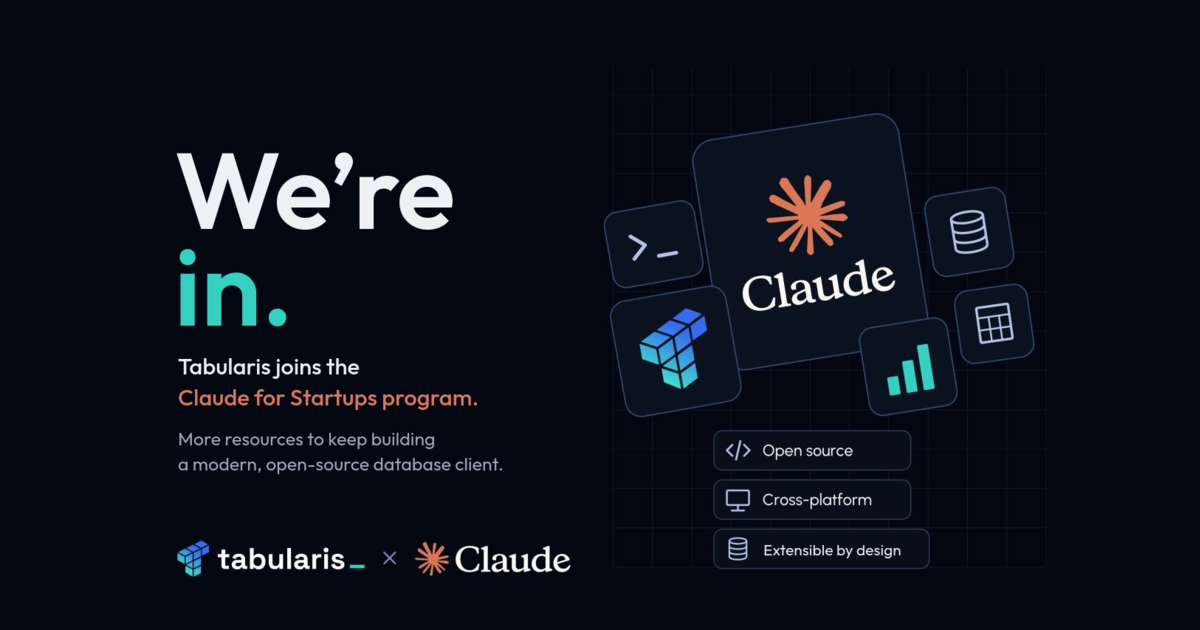
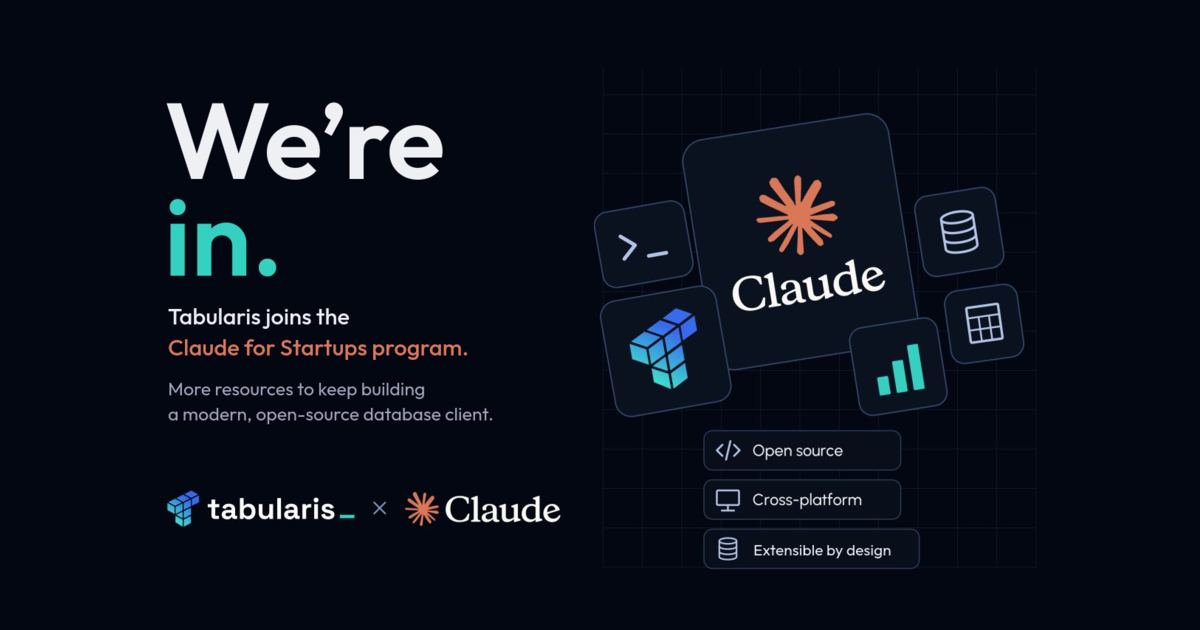
fix(blog): rename to Claude for Startups and recenter OG cover

diff --git a/content/posts/tabularis-joins-claude-startups.md b/content/posts/tabularis-joins-claude-startups.md
@@ -1,27 +1,27 @@
 ---
-title: "Tabularis Joins Claude Startups"
+title: "Tabularis Joins Claude for Startups"
 date: "2026-10-08T09:53:00"
 tags: ["community", "claude", "ai", "open-source"]
-excerpt: "Tabularis is now part of Claude Startups, Anthropic's program for early-stage companies. Here's what the program includes and what it changes for a small open-source database client."
+excerpt: "Tabularis is now part of Claude for Startups, Anthropic's program for early-stage companies. Here's what the program includes and what it changes for a small open-source database client."
 og:
-  title: "Tabularis joins Claude Startups —"
+  title: "Tabularis joins Claude for Startups"
   accent: "Build with us. Code with Claude."
   claim: "Anthropic's startup program, and what it gives a small open-source project built in public."
   image: "/img/og/claude-startups.png"
   cover: "/img/og/claude-startups.png"
 ---
 
-# Tabularis Joins Claude Startups
+# Tabularis Joins Claude for Startups
 
-Some news I'm genuinely happy to share: **Tabularis is now part of [Claude Startups](https://claude.com/programs/startups)**, Anthropic's program for early-stage companies building with Claude.
+Some news I'm genuinely happy to share: **Tabularis is now part of [Claude for Startups](https://claude.com/programs/startups)**, Anthropic's program for early-stage companies building with Claude.
 
 If you've followed this blog for a while, this probably won't come as news. Claude is already part of how Tabularis gets built, from the [AI assistant](/blog/ai-assistant) inside the app to the [MCP server](/blog/v099-mcp-multi-client) to experiments like [the one where Fable 5 opened an 1,800-line PR in 30 minutes](/blog/fable-5-opened-a-1800-line-pr-in-30-minutes). Joining the program makes that relationship official and gives a small project like ours resources that are hard to get otherwise.
 
 ![We're in: Tabularis joins the Claude for Startups program](/img/posts/tabularis-joins-claude-startups.png)
 
-## What Claude Startups is
+## What Claude for Startups is
 
-Claude Startups is Anthropic's program for young companies. It's open to startups **founded in the last 5 years or funded in the last 2**, and you don't need venture funding: bootstrapped and pre-seed teams are welcome too. You apply from the Claude Console with a company email and a short description of what you're building. Most applications are decided within minutes, and the rest go through a manual review that usually takes a couple of business days.
+Claude for Startups is Anthropic's program for young companies. It's open to startups **founded in the last 5 years or funded in the last 2**, and you don't need venture funding: bootstrapped and pre-seed teams are welcome too. You apply from the Claude Console with a company email and a short description of what you're building. Most applications are decided within minutes, and the rest go through a manual review that usually takes a couple of business days.
 
 Here's what the program includes:
 
@@ -48,7 +48,7 @@ The program changes a few practical things:
 
 ## What's next
 
-Joining Claude Startups doesn't change what Tabularis is: an open-source, cross-platform database client, built in public, with a plugin system anyone can extend. It does give us more fuel to build it faster and to try more ambitious ideas, and I'll keep sharing those experiments here on the blog, including what works and what doesn't.
+Joining Claude for Startups doesn't change what Tabularis is: an open-source, cross-platform database client, built in public, with a plugin system anyone can extend. It does give us more fuel to build it faster and to try more ambitious ideas, and I'll keep sharing those experiments here on the blog, including what works and what doesn't.
 
 If you've never contributed to Tabularis before, there's never been a better time to start. Pick an issue labelled `good first issue` on [GitHub](https://github.com/TabularisDB/tabularis/issues), improve a translation, write a plugin, or fix that small thing in the UI that has been bugging you.
 
